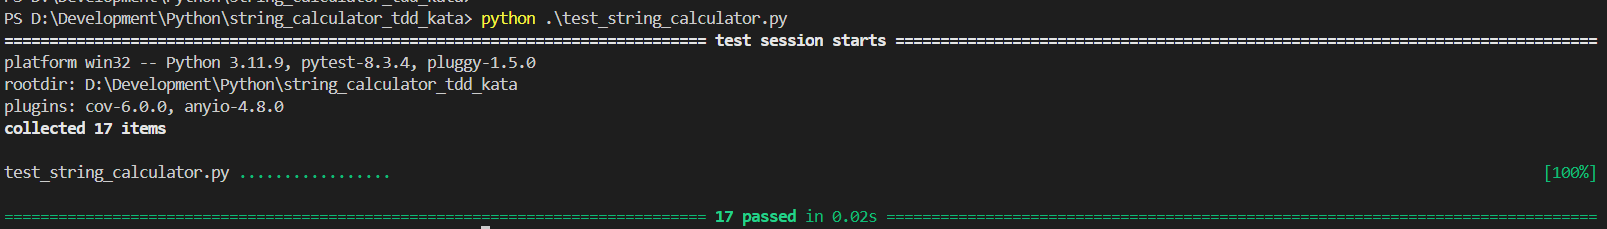
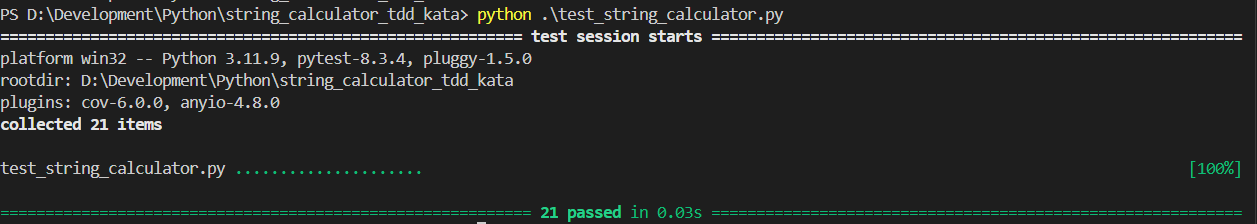
Updated readme and screenshots

Changed region(s): [[0.0, 0.0, 1.0, 1.0], [0.0, 0.4375, 0.2482, 0.5938], [0.0, 0.7188, 0.3413, 0.8125]]

diff --git a/string_calculator.py b/string_calculator.py
@@ -13,6 +13,7 @@ def add(numbers):
     if numbers.startswith("//"):
         # split into two part on first \n encounter
         delimiter_section, number_section = numbers.split("\n", 1)
+        # Non-greddy match. Captures the shortest possible match between the brackets
         matching = re.findall(r"\[(.*?)\]", delimiter_section)
 
         if matching:

diff --git a/README.md b/README.md
@@ -33,12 +33,14 @@ test_string_calculator.py .................                                     
 pytest --cov=string_calculator --cov-report term-missing
 ```
 ```
+test_string_calculator.py .....................                                                                                                                            [100%]
+
 ---------- coverage: platform win32, python 3.11.9-final-0 -----------
 Name                   Stmts   Miss  Cover   Missing
 ----------------------------------------------------
-string_calculator.py      15      0   100%
+string_calculator.py      23      0   100%
 ----------------------------------------------------
-TOTAL                     15      0   100%
+TOTAL                     23      0   100%
 ```
 
 In case you want to get HTML report -
